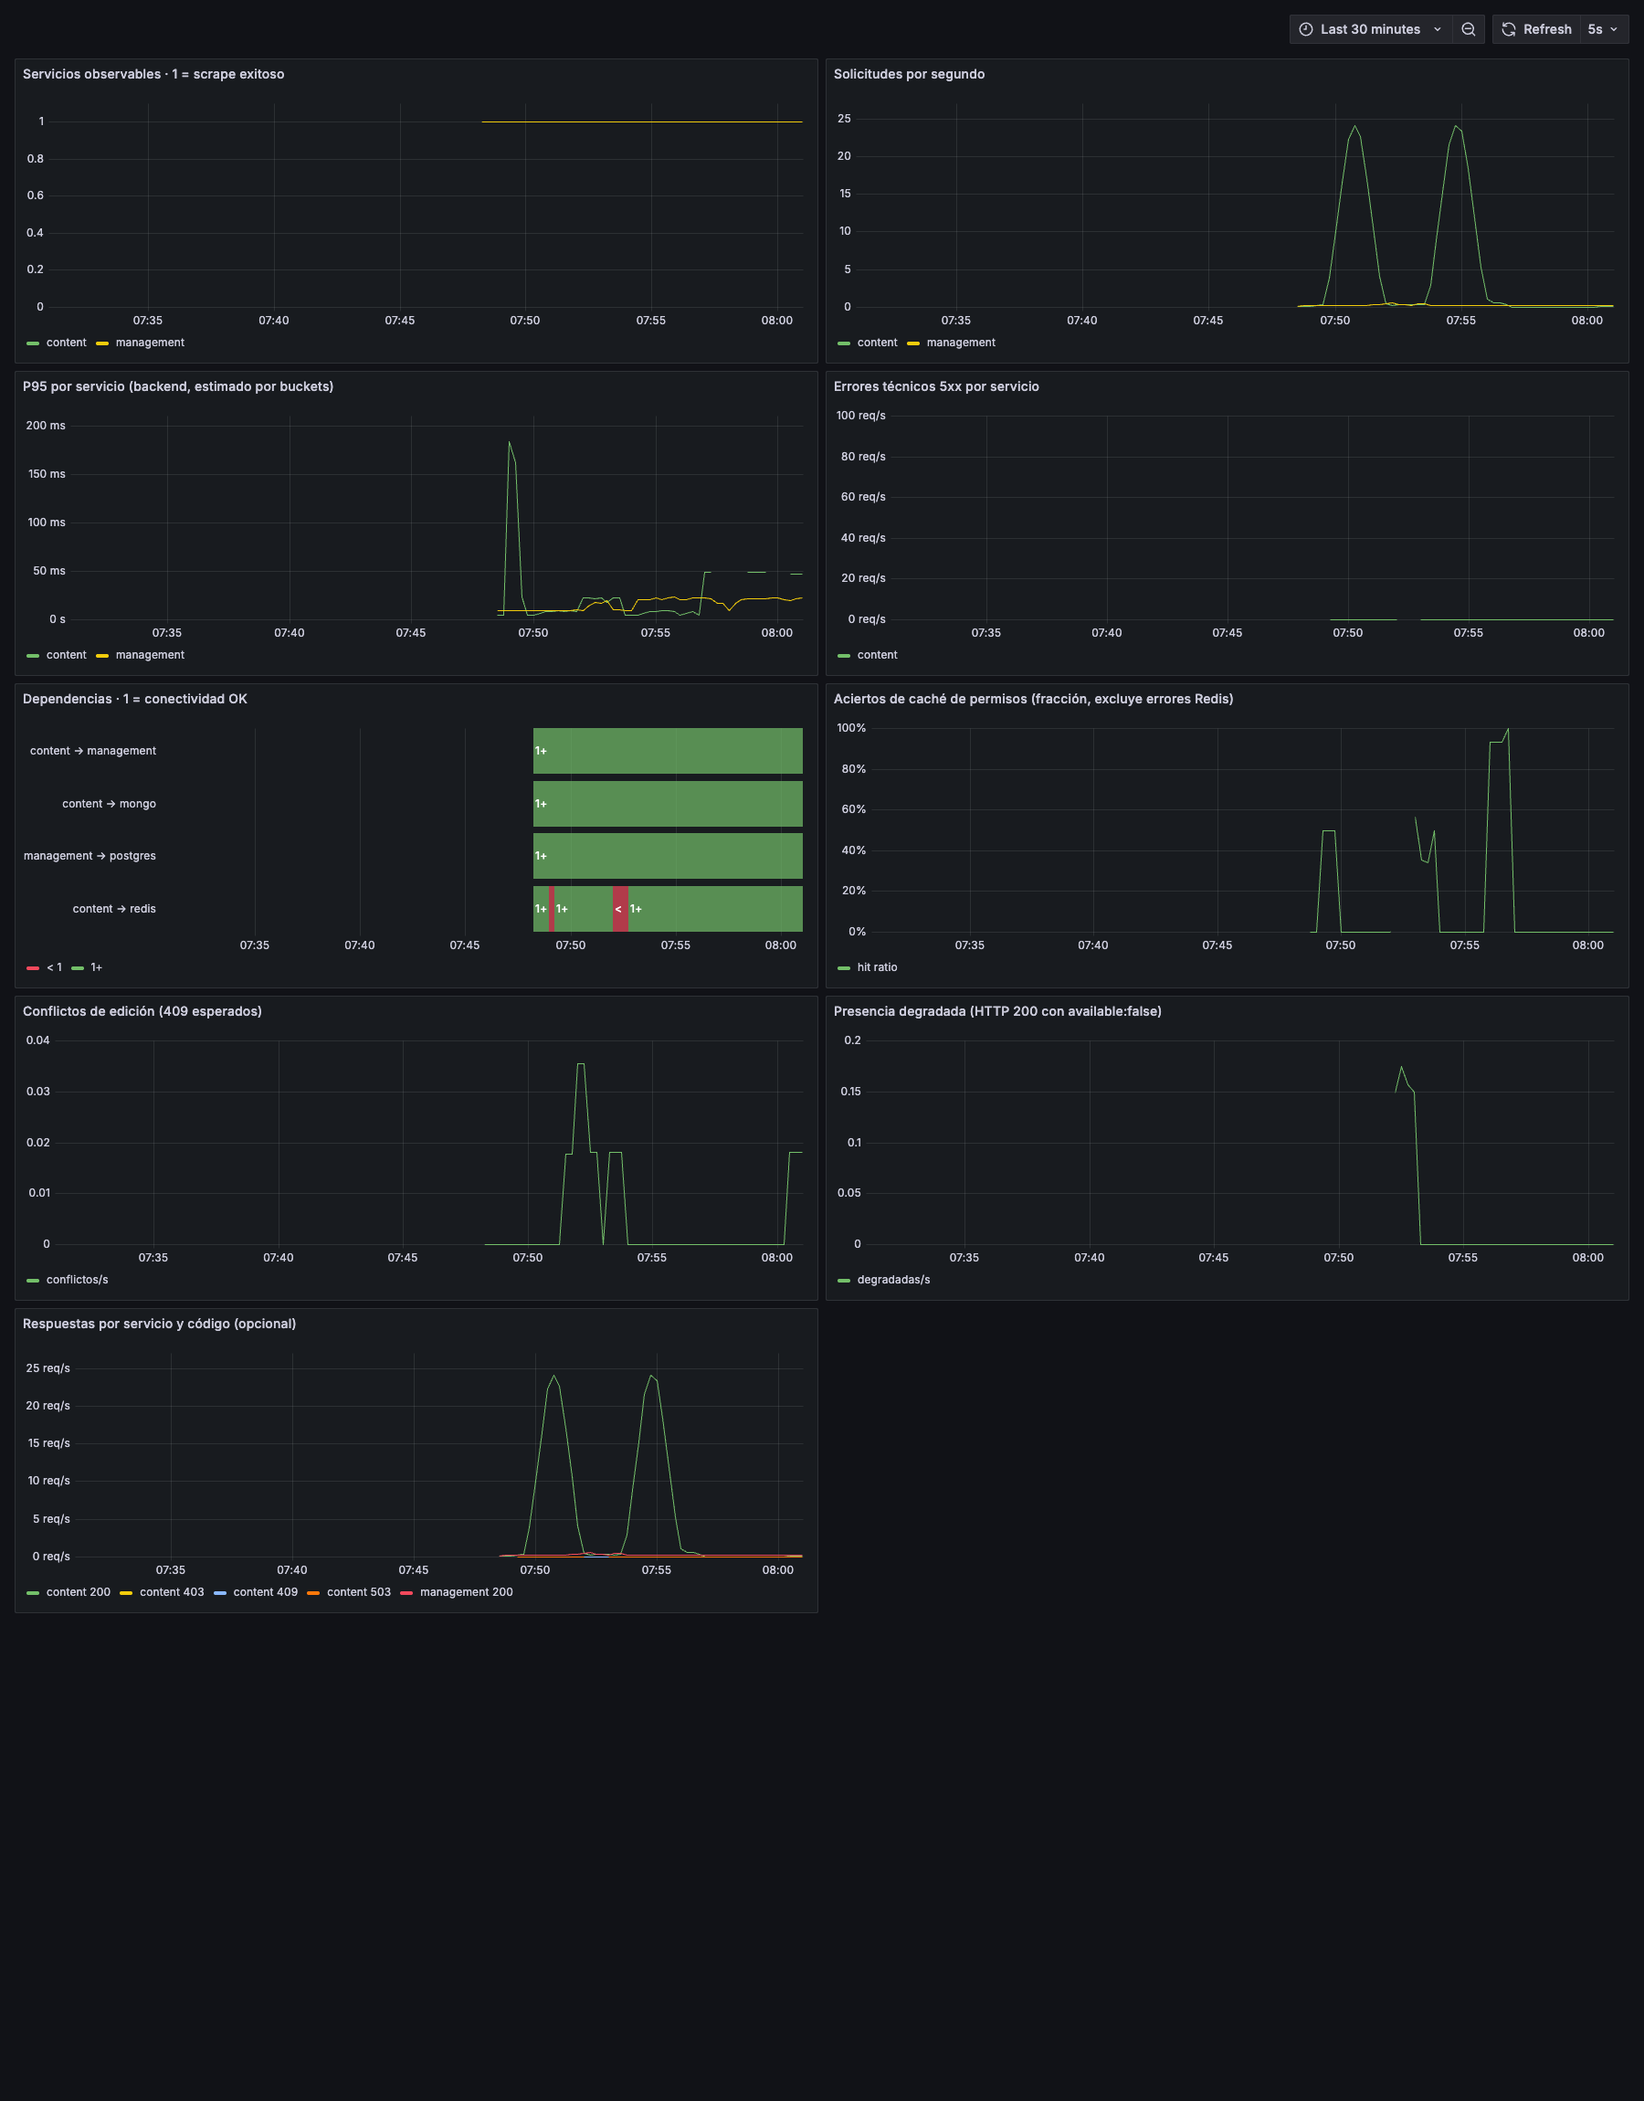
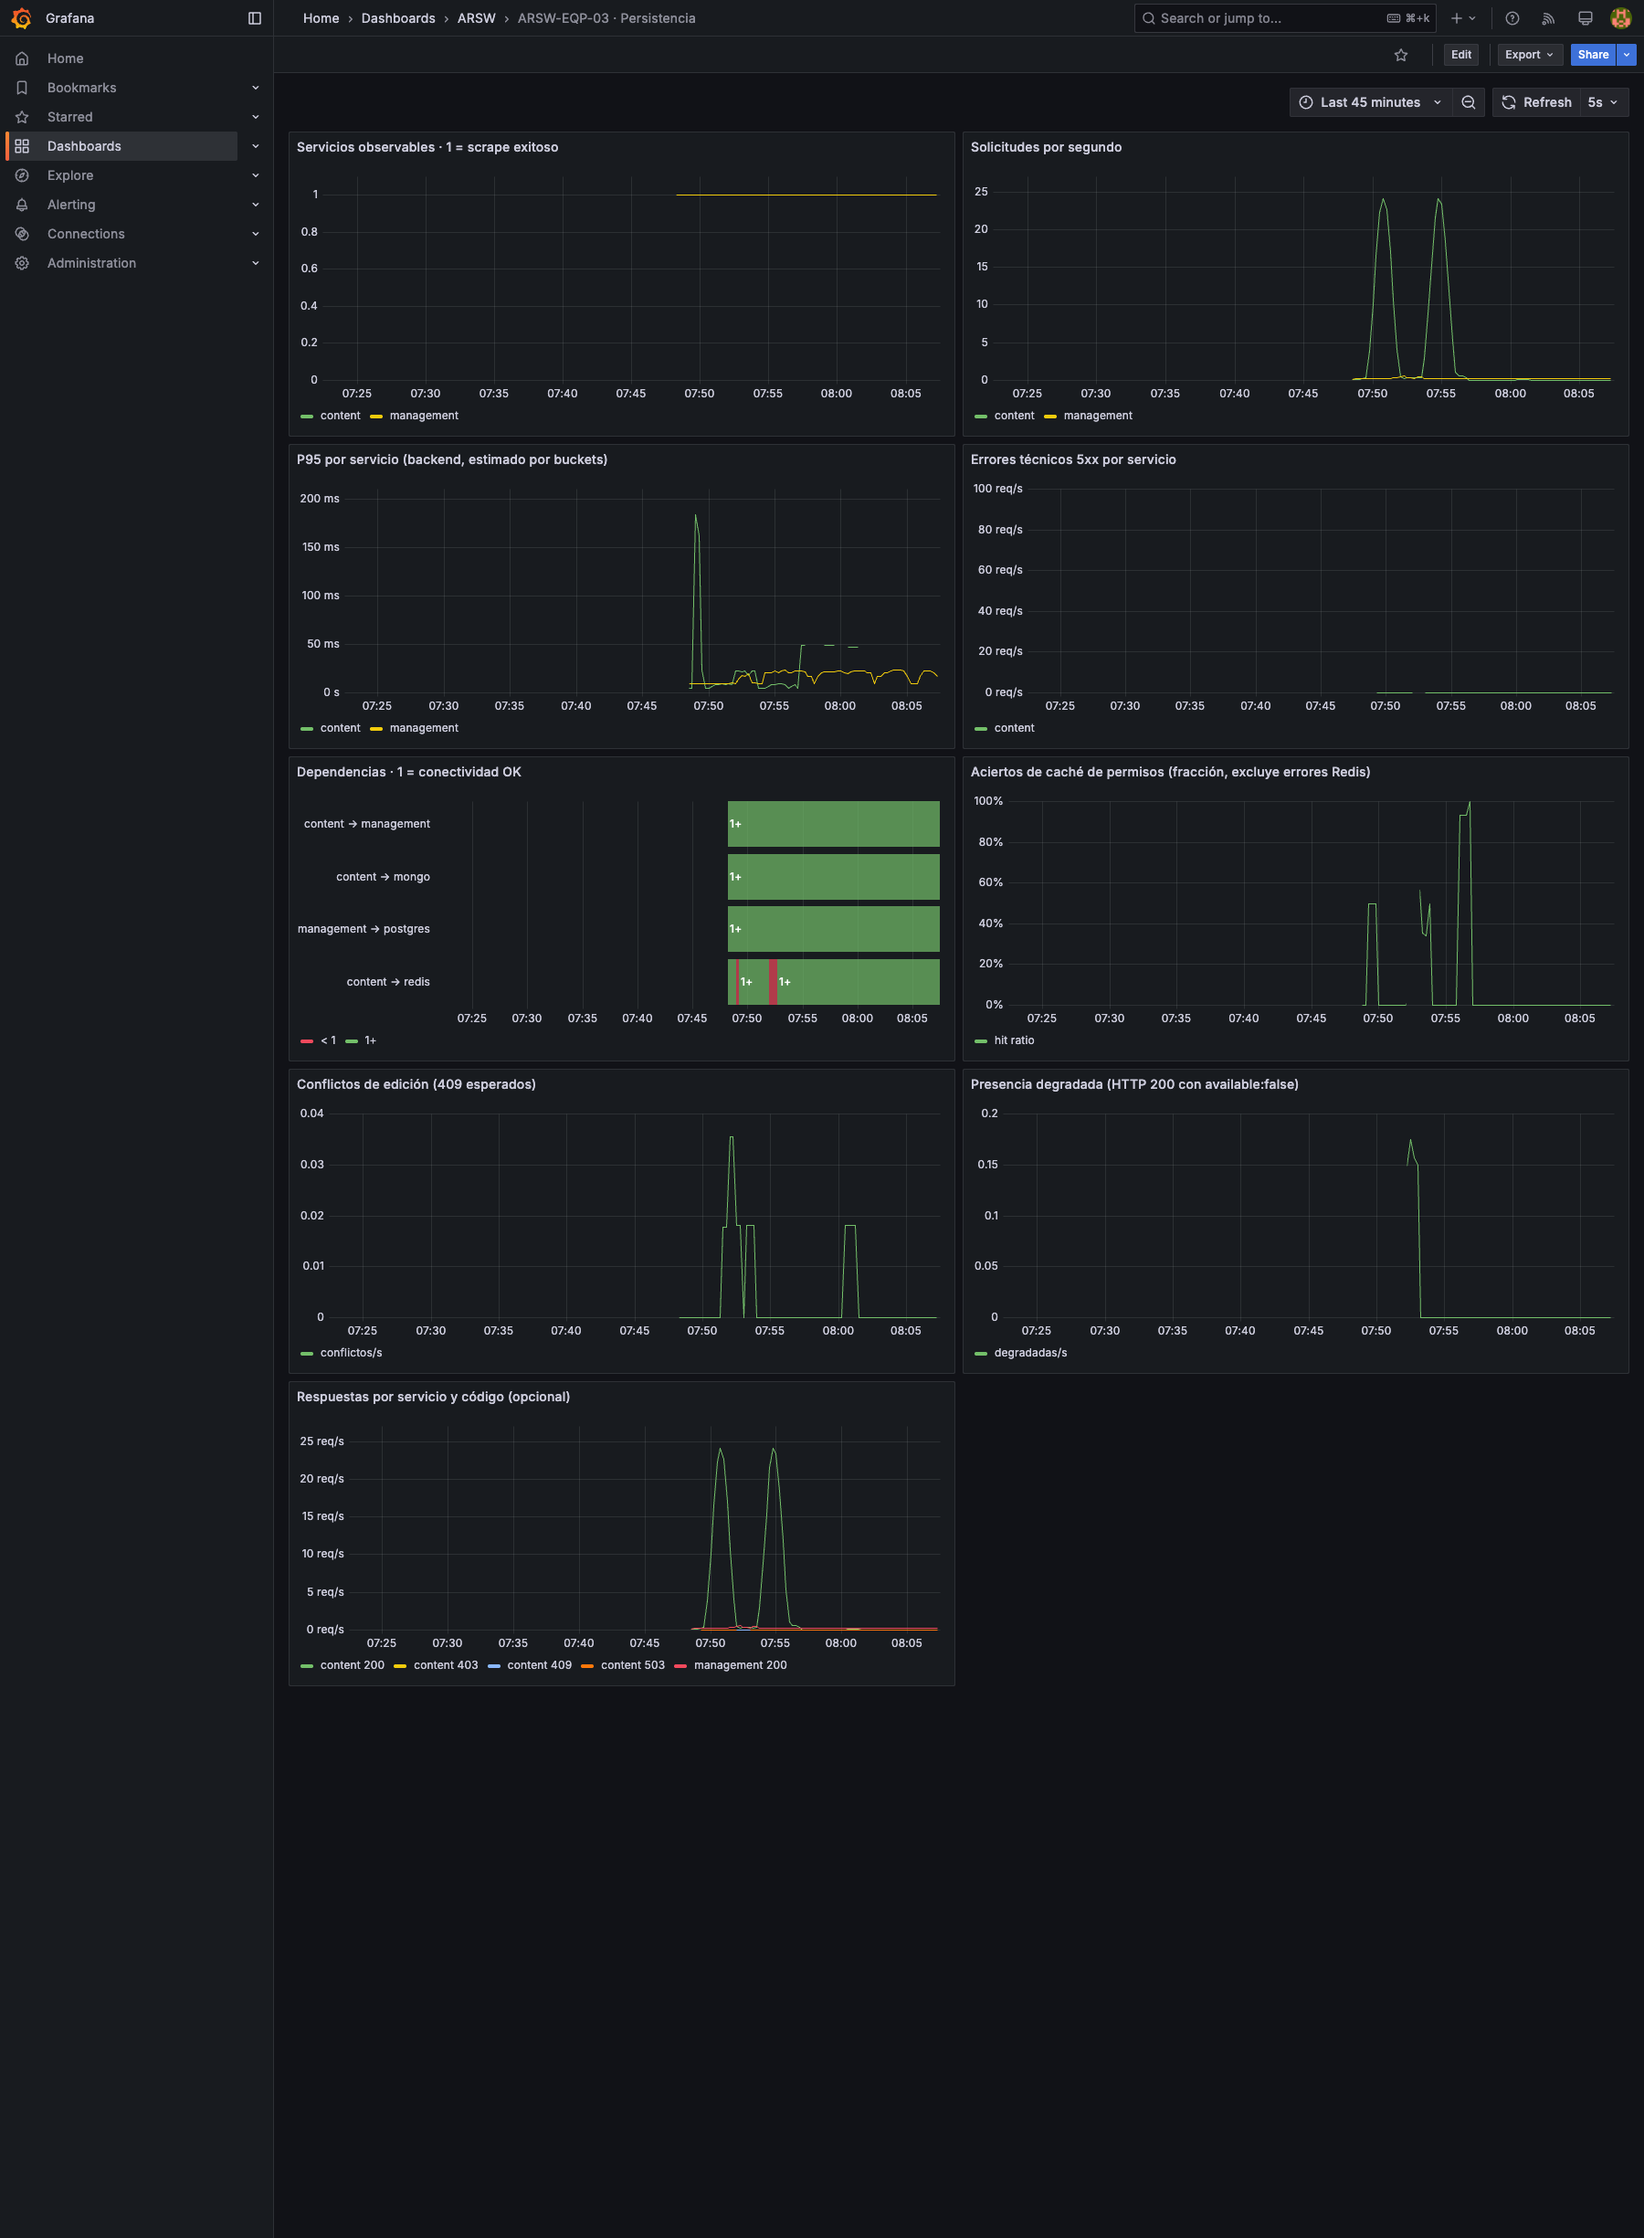
Completar equipo 3 e integrantes en la entrega y dashboard

diff --git a/entrega/EVIDENCIAS.md b/entrega/EVIDENCIAS.md
@@ -1,4 +1,4 @@
-# Evidencias · ARSW-EQP-__
+# Evidencias · ARSW-EQP-03
 
 ## Entorno
 macOS 26.6.2 · Apple M5 (10 núcleos disponibles para Docker) · 16 GB RAM en el equipo, **~7,75 GB asignados a Docker** · Docker Engine 29.6.1 · Docker Compose v5.3.0.
@@ -20,7 +20,7 @@ Todas las horas son del 2026-10-31 en **UTC** (hora local Colombia = UTC−5; en
 | Carga k6 (solución) | 12:53:26 – 12:55:07 | `evidencias/k6-carga-summary-solucion.json` (puntos crudos generados en `results/k6-carga-points.json`, no versionados por tamaño) | 1 979 req, 19,8 req/s, **P95 9,25 ms**, 0 % fallos, 0 errores semánticos, umbrales OK | Sin diferencia apreciable: k6 solo lee y los cambios afectan escrituras/presencia. El costo de la validación autoritativa (una llamada HTTP extra por PUT) **no** lo mide esta carga |
 
 ## Observabilidad
-Dashboard **ARSW-EQP-XX · Persistencia** (uid `arsw-eqp-persistencia`, carpeta ARSW) con los 2 paneles iniciales + 6 requeridos + 1 opcional (respuestas por código). Exportado en `entrega/dashboard.json`; captura con ventana "Last 30 minutes" en `evidencias/grafana-dashboard.png`. Targets en `evidencias/prometheus-targets.png`.
+Dashboard **ARSW-EQP-03 · Persistencia** (uid `arsw-eqp-persistencia`, carpeta ARSW) con los 2 paneles iniciales + 6 requeridos + 1 opcional (respuestas por código). Exportado en `entrega/dashboard.json`; captura con ventana "Last 45 minutes" (título del dashboard visible) en `evidencias/grafana-dashboard.png`. Targets en `evidencias/prometheus-targets.png`.
 
 Lectura del dashboard: las dos campanas de ~24 req/s son las dos cargas k6 (07:49–07:51 y 07:53–07:55 locales). El P95 del backend durante la carga ronda 5–25 ms (pico aislado ~180 ms al arrancar, con pocos datos en la ventana de 1 m). *Dependencias* muestra Redis en rojo dos veces (prueba base y prueba corregida). *Conflictos* tiene picos en cada acceptance y en el experimento de pestañas; *Presencia degradada* sube solo durante Redis caído corregido (en la base respondía 503 y no contaba). *Errores 5xx* queda prácticamente en 0: el único 503 de content fue el intencional de autoridad caída.
 
@@ -36,4 +36,3 @@ Lectura del dashboard: las dos campanas de ~24 req/s son las dos cargas k6 (07:4
 - No se resolvió (por diseño del laboratorio) la carrera entre validar permiso y escribir: ver ADR, sección Consecuencias.
 - En el panel *Dependencias* la caída de Gestión (≈8–10 s) no se ve claramente: el sondeo corre cada 5 s y Prometheus muestrea con su intervalo, por lo que paradas tan cortas pueden no quedar registradas. La evidencia de ese experimento es el JSON de `authority-down`.
 - Las pruebas opcionales de estrés, pico y resistencia no se ejecutaron.
-- El número de equipo y los integrantes deben completarse en los tres archivos y en el título del dashboard.

diff --git a/entrega/ADR-001.md b/entrega/ADR-001.md
@@ -1,6 +1,6 @@
 # ADR-001 · Persistencia y garantías del tablero
 
-- Equipo / integrantes: ARSW-EQP-__ · _(completar)_
+- Equipo / integrantes: ARSW-EQP-03 · Sara Arteaga, Johan Beltrán, Julián Tinjacá
 - Estado: **aceptado**
 - Fecha y commit: 2026-10-31 · ver último commit del repositorio de entrega
 
@@ -58,6 +58,6 @@ db.board_history.createIndex({ board_id: 1, version: -1 }, { unique: true })
 **Límites que las pruebas NO demuestran**: no prueban la carrera de una revocación concurrente con una escritura en curso (ventana descrita arriba); no prueban replicación, consenso ni particiones de red (instancias únicas — detener Redis es falla de dependencia, no partición); la carga k6 solo hace lecturas, por lo que no mide el costo de la validación autoritativa bajo escrituras concurrentes; 100 s con 5 VU no demuestran estabilidad sostenida.
 
 ## Participación y herramientas
-- Integrantes y contribución: _(completar por el equipo)_.
+- Integrantes: Sara Arteaga, Johan Beltrán, Julián Tinjacá. Contribución de cada uno: _(completar por el equipo)_.
 - Documentación consultada: README y `docs/` del laboratorio; MongoDB *Atomicity and Transactions* / `findOneAndUpdate`; Redis `SET` (opción `EX`); PostgreSQL *Constraints*; Prometheus *Histograms and summaries*; Grafana *provisioning*; k6 *scenarios*.
 - Apoyo de asistentes: se usó un asistente de IA para ejecutar los comandos del laboratorio, proponer la implementación de los tres TODO y redactar borradores de la matriz, ADR y evidencias. El equipo revisó el código (10 líneas efectivas en `services/content/decisions.py`) y los resultados, y es responsable de explicarlos.

diff --git a/entrega/MATRIZ.md b/entrega/MATRIZ.md
@@ -1,6 +1,6 @@
-# Matriz de decisiones · ARSW-EQP-__
+# Matriz de decisiones · ARSW-EQP-03
 
-Integrantes: _(completar)_
+Integrantes: Sara Arteaga, Johan Beltrán, Julián Tinjacá
 
 | Dato | Motor elegido | Consulta principal | Qué debe ser atómico | Atraso tolerable | Retención / TTL | Consecuencia de perderlo | Alternativa y costo |
 |---|---|---|---|---|---|---|---|
